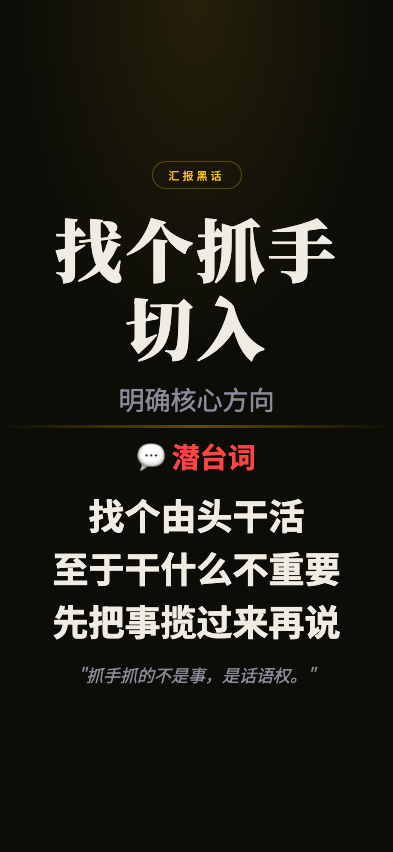
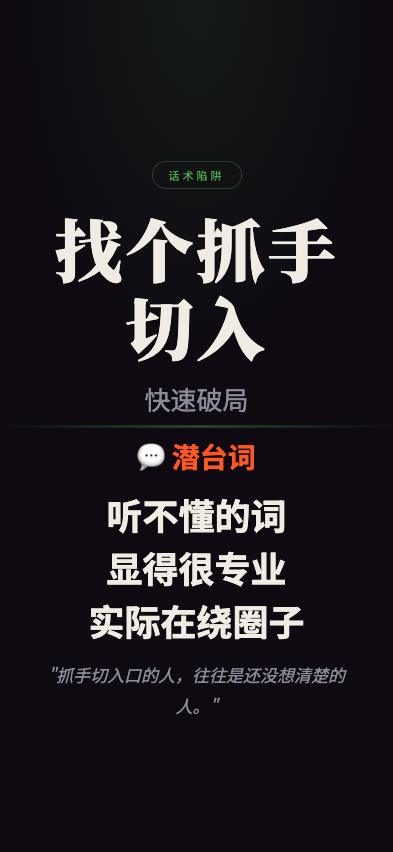
feat: 职场生存法则 screenshot - zhaogezhuashouqieru

Changed region(s): [[0.1221, 0.5798, 0.8855, 0.8545], [0.2443, 0.4577, 0.7634, 0.5493], [0.4275, 0.1831, 0.5802, 0.2136]]

diff --git a/wuliao-tools/tools/biz-speak/scenes/zhaogezhuashouqieru.html b/wuliao-tools/tools/biz-speak/scenes/zhaogezhuashouqieru.html
@@ -7,11 +7,11 @@
 <link href="https://fonts.googleapis.com/css2?family=Noto+Serif+SC:wght@400;700;900&family=Noto+Sans+SC:wght@300;400;700&display=swap" rel="stylesheet">
 <style>
   :root {
-    --bg: #0d0d08;
+    --bg: #0f0a12;
     --text: #f0ece4;
     --text-dim: #8a8a9a;
-    --gold: #f5c518;
-    --red: #ff4444;
+    --gold: #4caf50;
+    --red: #ff5722;
   }
   * { margin:0; padding:0; box-sizing:border-box; }
   html, body { width:100%; height:100%; overflow:hidden; }
@@ -24,11 +24,11 @@
   }
   body::before {
     content:''; position:absolute; top:0; left:0; right:0; height:45%;
-    background:radial-gradient(ellipse at 50% 0%, rgba(245,197,24,0.1) 0%, transparent 65%);
+    background:radial-gradient(ellipse at 50% 0%, rgba(76,175,80,0.1) 0%, transparent 65%);
     pointer-events:none; z-index:0;
   }
   .top { flex:1; display:flex; flex-direction:column; align-items:center; justify-content:flex-end; padding:4px 28px 8px; position:relative; z-index:1; }
-  .tag { font-size:11px; letter-spacing:3px; color:var(--gold); border:1px solid rgba(245,197,24,0.3); padding:5px 16px; border-radius:50px; margin-bottom:20px; }
+  .tag { font-size:11px; letter-spacing:3px; color:var(--gold); border:1px solid rgba(76,175,80,0.3); padding:5px 16px; border-radius:50px; margin-bottom:20px; }
   .main-title { font-family:'Noto Serif SC'; font-size:68px; font-weight:900; text-align:center; line-height:1.15; letter-spacing:3px; min-width:0; overflow-wrap:break-word; max-width:92%; }
   .sub-title { font-size:26px; color:var(--text-dim); text-align:center; margin-top:14px; }
   .divider { width:100%; height:3px; background:linear-gradient(90deg,transparent,var(--gold),transparent); opacity:0.35; flex-shrink:0; position:relative; z-index:1; }
@@ -41,19 +41,19 @@
 </head>
 <body>
   <div class="top">
-    <div class="tag">汇报黑话</div>
+    <div class="tag">话术陷阱</div>
     <div class="main-title">找个抓手切入</div>
-    <div class="sub-title">明确核心方向</div>
+    <div class="sub-title">快速破局</div>
   </div>
   <div class="divider"></div>
   <div class="bottom">
     <div class="truth-label">💬 潜台词</div>
     <div class="truth-lines">
-      <div class="truth-line">找个由头干活</div>
-      <div class="truth-line">至于干什么不重要</div>
-      <div class="truth-line">先把事揽过来再说</div>
+      <div class="truth-line">听不懂的词</div>
+      <div class="truth-line">显得很专业</div>
+      <div class="truth-line">实际在绕圈子</div>
     </div>
-    <div class="quote">"抓手抓的不是事，是话语权。"</div>
+    <div class="quote">"抓手切入口的人，往往是还没想清楚的人。"</div>
   </div>
 </body>
 </html>
